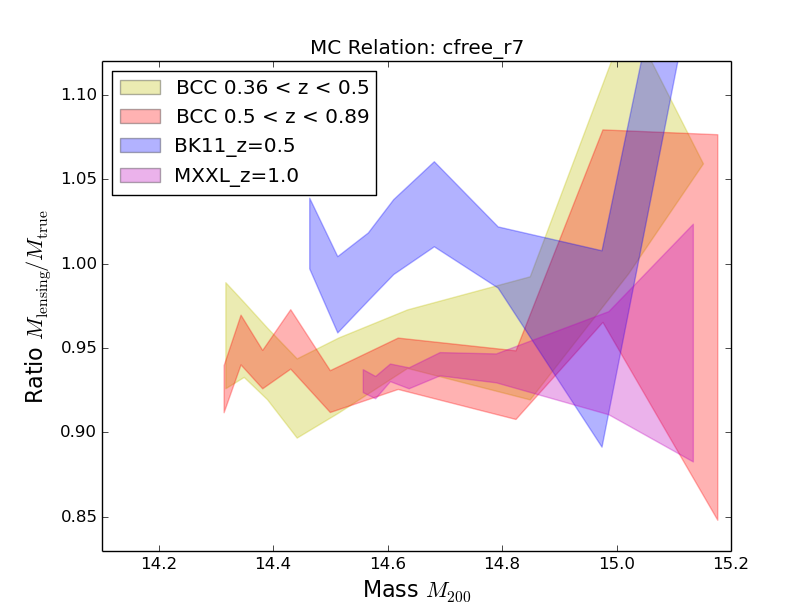
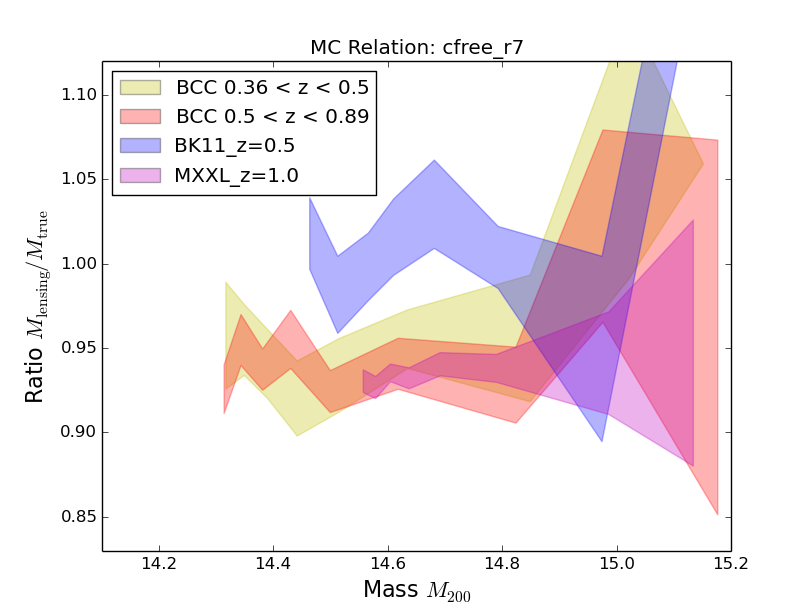
adding a duffy_r7 figure

diff --git a/compareDiffSims.py b/compareDiffSims.py
@@ -14,8 +14,8 @@ simdirs = [bccsimdir, bk11snap141dir, mxxldir]
 #simnames = 'BCC BK11_z=0.25 BK11_z=0.5 MXXL_z=1.0'.split()
 simnames = 'BCC BK11_z=0.5 MXXL_z=1.0'.split()
 
-subdirs='c4_r5 cfree_r5'.split()
-subdirnames='c4_r5 cfree_r5'.split()
+subdirs='c4_r7 cfree_r7 duffy_r7'.split()
+subdirnames='c4_r7 cfree_r7 duffy_r7'.split()
 
 data = {}
 
